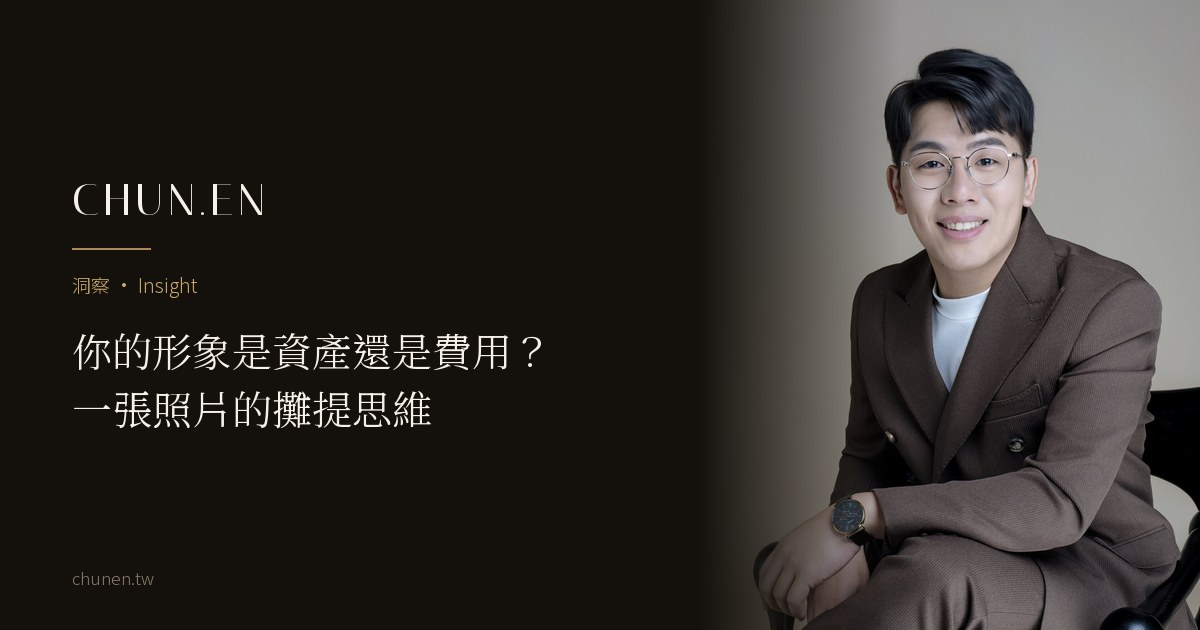
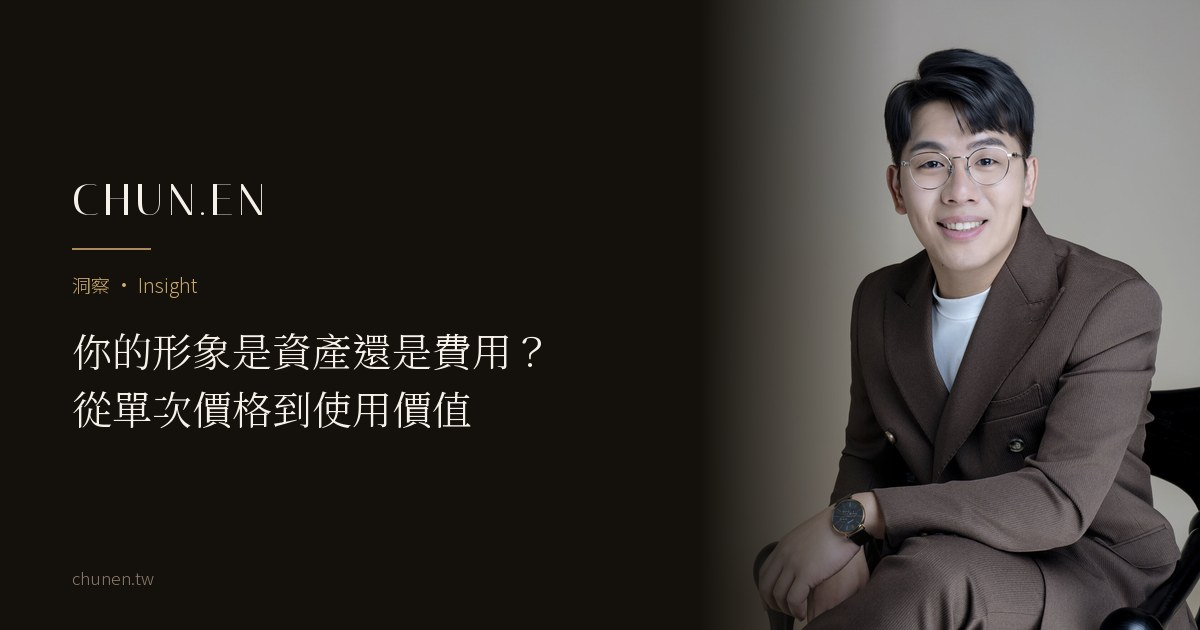
content(journal): 部署三篇依商業機密邊界與分工重新檢視；prepublish 加邊界檢查
prepublish_check 新增商業機密邊界關卡（注入測試驗過、全站零誤報）：
- 必修三條：/deploy 工具網址、內部品項代號（P0xx/A-0x/S-x 等）、Google Sheets 連結
- 人工判定一條：決策樹／shot list／選片規則／訪談題目／模擬器＋操作教學同段
  → 列警告並明寫「對照基準資料包 05，不易判定 → 問 user」

image-asset-or-expense
- H1 副標「一張照片的攤提思維」→「從單次價格到使用價值」：正文已聲明資產
  只是管理比喻，標題留著會計術語是自打（title/og/twitter/schema/錨文字×2 同步）
- H2「結帳之前，先換一欄記記看」→「回頭看這組照片，還在被使用嗎？」
- 「差的往往不是器材」→「差異多半來自服務範圍」（不過度概括同業）
- 「最常見、也最難補救」去掉無依據的頻率排名；「資產也有折舊」刪
- og 卡重產

portrait-deployment-map
- 開場改直接進操作，不再重複第一篇的「換大頭貼＋躺硬碟」畫面（兩篇分工：
  after 講為什麼沒用上、map 講怎麼分配，開場就標明）
- 金句「放對地方才是資產」→「放進版位才開始被看見」（資產框架讓給第三篇）

after-the-shoot：邊界與內容檢視過，模擬器段落合規（講功能、不連結工具），無需再動。
founder 草稿「完整的攤提算法在〈…〉」指向已不存在的段落，引用改寫對齊。

Changed region(s): [[0.0617, 0.6032, 0.4008, 0.6937]]

diff --git a/journal/image-asset-or-expense.html b/journal/image-asset-or-expense.html
@@ -4,14 +4,14 @@
   <meta charset="UTF-8" />
   <meta name="viewport" content="width=device-width, initial-scale=1.0, viewport-fit=cover" />
   <meta name="robots" content="noindex" /><!-- 草稿：Kay 審核後移除此行＋掛列表頁＋入 sitemap -->
-  <title>你的形象是資產還是費用？一張照片的攤提思維｜CHUN.EN 觀點</title>
+  <title>你的形象是資產還是費用？從單次價格到使用價值｜CHUN.EN 觀點</title>
   <meta name="description" content="一組形象照值不值得，不只看拍攝當天的價格。從官網、名片、提案與媒體這些實際用得到的位置，重新評估一組照片的使用範圍、更新時機，以及什麼情況下它其實是閒置的。" />
   <meta name="theme-color" content="#14100B" />
   <link rel="icon" href="/favicon.ico" sizes="48x48" />
   <link rel="icon" href="/favicon-32.png" type="image/png" sizes="32x32" />
   <link rel="apple-touch-icon" href="/apple-touch-icon.png" />
   <link rel="canonical" href="https://chunen.tw/journal/image-asset-or-expense.html" />
-  <meta property="og:title" content="你的形象是資產還是費用？一張照片的攤提思維" />
+  <meta property="og:title" content="你的形象是資產還是費用？從單次價格到使用價值" />
   <meta property="og:description" content="費用思維問「這次要花多少」；資產思維問「它之後派得上多少用場」。" />
   <meta property="og:image" content="https://chunen.tw/assets/og/image-asset-or-expense-og.jpg" />
   <meta property="og:image:width" content="1200" />
@@ -20,7 +20,7 @@
   <meta property="og:type" content="article" />
   <meta property="og:locale" content="zh_TW" />
   <meta name="twitter:card" content="summary_large_image" />
-  <meta name="twitter:title" content="你的形象是資產還是費用？一張照片的攤提思維" />
+  <meta name="twitter:title" content="你的形象是資產還是費用？從單次價格到使用價值" />
   <meta name="twitter:description" content="費用思維問「這次要花多少」；資產思維問「它之後派得上多少用場」。" />
   <meta name="twitter:image" content="https://chunen.tw/assets/og/image-asset-or-expense-og.jpg" />
   <link rel="preconnect" href="https://fonts.googleapis.com" />
@@ -70,7 +70,7 @@
     <header style="padding: clamp(9rem, 16vh, 11rem) 0 clamp(2rem, 4vh, 3rem);">
       <div class="wrap article-wrap">
         <p class="hero-eyebrow rv">洞察 · Insight</p>
-        <h1 class="rv rv-d1" style="font-weight: 300; font-size: clamp(1.9rem, 4.4vw, 3.2rem); line-height: 1.4; margin-top: 1rem;">你的形象是資產還是費用？<br>一張照片的<em style="font-style:normal;color:var(--gold-light);">攤提思維</em></h1>
+        <h1 class="rv rv-d1" style="font-weight: 300; font-size: clamp(1.9rem, 4.4vw, 3.2rem); line-height: 1.4; margin-top: 1rem;">你的形象是資產還是費用？<br>從單次價格到<em style="font-style:normal;color:var(--gold-light);">使用價值</em></h1>
         <p class="article-meta rv rv-d2">CHUN.EN 觀點 · 2026 · 閱讀約 5 分鐘</p>
       </div>
     </header>
@@ -117,7 +117,7 @@
 
         <h2>最貴的照片，是<em>拍了不敢用的</em>那組</h2>
         <p>反過來看，最不划算的不是貴的方案，是「便宜但閒置」的那組：拍完覺得不像自己、不敢放上官網、提案時還是塞舊照，購入價再低，使用率是零，等於什麼都沒有換到。這就是閒置資產。</p>
-        <p>而照片會閒置，原因不只一種：用途沒先盤點、構圖不適合版位、服裝方向不對、成品不像本人，也可能只是工作角色後來改變了。其中最常見、也最難事後補救的一種，是<a href="positioning-decides-portrait.html">定位缺席</a>：沒想清楚要讓誰看見、以什麼角色，拍出來自然「好看但用不上」。這也解釋了<a href="why-prices-differ.html">價格差十倍的形象照差在哪</a>，差的往往不是器材，是快門之前的定位工程，以及交付之後<a href="after-the-shoot.html">能不能真的部署出去</a>。</p>
+        <p>而照片會閒置，原因不只一種：用途沒先盤點、構圖不適合版位、服裝方向不對、成品不像本人，也可能只是工作角色後來改變了。其中最難靠事後補救的一種，是<a href="positioning-decides-portrait.html">定位缺席</a>：沒想清楚要讓誰看見、以什麼角色，拍出來自然「好看但用不上」。這也解釋了<a href="why-prices-differ.html">價格差十倍的形象照差在哪</a>：差異多半來自服務範圍，從快門之前的定位工作，到交付之後<a href="after-the-shoot.html">有沒有真的被用起來</a>。</p>
 
         <figure class="article-fig crop45">
           <img src="../assets/gallery/journal/image-asset-hero-v1-1400.jpg" alt="同一組拍攝中的另一張商務形象照，可用於官網與簡報版位" loading="lazy" />
@@ -127,10 +127,10 @@
         <h2>怎麼把這筆投資<em>做成資產</em></h2>
         <p>三個原則。一、先定位再拍，資產的價值來自「用得上」，而用得上來自想清楚（<a href="../a-voir.html">À Voir</a> 做的就是這件事）。</p>
         <p>二、先排最重要的版位，官網、社群、提案、媒體各要的版本，在拍攝規劃時就排進去，而不是拍完再將就；暫時用不到的，不必為了湊齊而拍。</p>
-        <p>三、定期盤點，照片和本人出現落差、角色升級時就該<a href="when-to-update-your-portrait.html">更新</a>，資產也有折舊。</p>
-        <p><strong>換一欄記，問題就不只是「要花多少」，而是「它接下來還派得上多少用場」。</strong></p>
+        <p>三、定期盤點，照片和本人出現落差、角色升級時就該<a href="when-to-update-your-portrait.html">更新</a>。</p>
+        <p><strong>換個算法，問題就不只是「要花多少」，而是「它接下來還派得上多少用場」。</strong></p>
 
-        <h2>結帳之前，先換一欄<em>記記看</em></h2>
+        <h2>回頭看這組照片，<em>還在被使用嗎？</em></h2>
         <p>回頭看你現在用的那張照片：它現在掛在哪些地方？還像現在的你嗎？職稱與角色還對嗎？需要放進簡報、媒體或官網的時候，有沒有適合的版本可以直接拿出來？</p>
         <p>如果答案多半是肯定的，這組照片就還在替你工作；如果多數位置都沒有它的版本，下一次要補的可能不是張數，是規劃。</p>
 
@@ -186,7 +186,7 @@
   {
     "@context": "https://schema.org",
     "@type": "Article",
-    "headline": "你的形象是資產還是費用？一張照片的攤提思維",
+    "headline": "你的形象是資產還是費用？從單次價格到使用價值",
     "description": "一組形象照值不值得，不只看拍攝當天的價格，而看它能不能重複進入官網、社群、簡報與媒體這些真正需要的位置，以及什麼時候該更新。",
     "image": "https://chunen.tw/assets/gallery/journal/image-asset-hero-v1-1400.jpg",
     "author": {"@type": "Person", "@id": "https://chunen.tw/author/zoey-wu.html#zoey", "name": "吳惇恩", "alternateName": "Zoey Wu", "jobTitle": "Founder & Brand Director", "image": "https://chunen.tw/assets/images/zoey-author-640.jpg", "url": "https://chunen.tw/author/zoey-wu.html"},
@@ -231,7 +231,7 @@
       {
         "@type": "ListItem",
         "position": 3,
-        "name": "你的形象是資產還是費用？一張照片的攤提思維",
+        "name": "你的形象是資產還是費用？從單次價格到使用價值",
         "item": "https://chunen.tw/journal/image-asset-or-expense.html"
       }
     ]

diff --git a/journal/portrait-deployment-map.html b/journal/portrait-deployment-map.html
@@ -12,7 +12,7 @@
   <link rel="apple-touch-icon" href="/apple-touch-icon.png" />
   <link rel="canonical" href="https://chunen.tw/journal/portrait-deployment-map.html" />
   <meta property="og:title" content="一組照片的部署地圖：官網、LinkedIn、簡報、媒體各要哪一張？" />
-  <meta property="og:description" content="照片的價值不在硬碟裡，在部署的位置上。拍完只是完成一半，放對地方才是資產。" />
+  <meta property="og:description" content="照片的價值不在硬碟裡，在部署的位置上。拍完只是完成一半，放進版位才開始被看見。" />
   <meta property="og:image" content="https://chunen.tw/assets/gallery/journal/portrait-deployment-map-hero-1400.jpg" />
   <meta property="og:image:width" content="2160" />
   <meta property="og:image:height" content="1215" />
@@ -90,9 +90,9 @@
       </div>
 
       <div class="article-body rv">
-        <p class="article-lead">很多人拍完一組形象照之後，做的唯一一件事是：換了 LINE 和 Facebook 的大頭貼。</p>
-        <p>其餘十幾張，躺在雲端硬碟裡再也沒被打開。這就像買了一整套西裝，卻只穿了領帶出門。</p>
-        <p>照片的價值不在硬碟裡，在部署的位置上，每一個你會被看見的場景，任務都不一樣；部署，就是替每個位置配上合適的那一張。</p>
+        <p class="article-lead">同一組形象照，進到官網、LinkedIn、簡報與媒體時，需要的構圖不完全相同。</p>
+        <p>官網主視覺要留空間給標題；LinkedIn 要縮得很小仍認得出你；簡報與媒體常常還需要另外的橫直版本與高解析檔案。所以照片的使用規劃，不是每個平台換一個人，而是同一個人，替不同版位準備合適的版本。</p>
+        <p>這件事我們叫部署：每一個你會被看見的位置，任務都不一樣；部署，就是替每個位置配上合適的那一張。照片為什麼會沒被用上，〈拍完形象照之後〉談過了；這一篇談怎麼分配。</p>
 
         <h2>先建立一個觀念：場景不同，<em>任務不同</em></h2>
         <p>同一組照片裡，很少有一張能在每個版位都是最佳構圖。官網首頁要的是「敘事感」，LinkedIn 要的是「縮到很小仍然認得出你」，簡報講師欄要的是「小尺寸也清楚」，媒體要的是「高解析與留白」。把同一張貼滿所有地方不會出事，只是多數位置都會差一點；<strong>真正需要一致的不是照片本身，是照片裡的那個人和他的角色。</strong></p>
@@ -114,7 +114,7 @@
         </table>
         </div>
         <p>看出規律了嗎？部署地圖其實在回答三個問題：<strong>誰會在這裡看到你？他距離你多遠（螢幕、紙本、還是舞台）？這個位置要先讓他認出你，還是先看懂你在做什麼？</strong>答案不同，照片就不同。</p>
-        <blockquote>照片的價值不在硬碟裡，在部署的位置上。拍完只是完成一半，放對地方才是資產。</blockquote>
+        <blockquote>照片的價值不在硬碟裡，在部署的位置上。拍完只是完成一半，放進版位才開始被看見。</blockquote>
 
         <h2>部署的紀律：什麼<em>可以不同</em>，什麼不能</h2>
         <p>這麼多版位、這麼多版本，聽起來很分裂？不會，只要它們來自同一次定位。</p>
@@ -159,7 +159,7 @@
       <div class="related rv">
         <p class="related-t">相關閱讀 · Related</p>
         <a href="after-the-shoot.html">拍完形象照之後，為什麼很多照片最後沒有被用上？</a>
-        <a href="image-asset-or-expense.html">你的形象是資產還是費用？一張照片的攤提思維</a>
+        <a href="image-asset-or-expense.html">你的形象是資產還是費用？從單次價格到使用價值</a>
         <a href="portrait-vs-personal-brand.html">形象照 vs 個人品牌形象照，差在哪</a>
       </div>
 

diff --git a/journal/founder-portrait-fundraising.html b/journal/founder-portrait-fundraising.html
@@ -115,7 +115,7 @@
         <p>這四行不是四個人設，是同一個你的四個切面，這正是〈<a href="which-version-of-you.html">要讓人看見哪一面</a>〉的命題。營運上的正確做法是一次企劃完成，變成一組可以按對象調度的資產，而不是每輪募資前臨時補一張。怎麼調度，見〈<a href="portrait-deployment-map.html">一組照片的部署地圖</a>〉。</p>
 
         <h2>把帳攤開算：這是全公司<em>單次成本最低</em>的信任資產</h2>
-        <p>新創的每一筆錢都該被拷問，所以我直接攤帳。一組專業的創辦人形象，使用場景至少包括：募資 deck 團隊頁、官網 About、LinkedIn、媒體採訪供圖、活動講者照、徵才頁，生命週期通常走完一整個募資階段，以使用次數攤提，<strong>它幾乎是所有對外支出裡單次成本最低的一項</strong>。完整的攤提算法在〈<a href="image-asset-or-expense.html">你的形象是資產還是費用</a>〉。</p>
+        <p>新創的每一筆錢都該被拷問，所以我直接攤帳。一組專業的創辦人形象，使用場景至少包括：募資 deck 團隊頁、官網 About、LinkedIn、媒體採訪供圖、活動講者照、徵才頁，生命週期通常走完一整個募資階段，把使用場景一個個數過去，<strong>它幾乎是所有對外支出裡單次成本最低的一項</strong>。這筆帳的完整看法，見〈<a href="image-asset-or-expense.html">你的形象是資產還是費用</a>〉。</p>
         <p>反過來的帳更該算：一張不對的照片，會在每一次被搜尋、每一場簡報、每一篇報導裡重複折損你，省下的是一次拍攝費，付出的是整個募資期的訊號稅。順帶一提：如果需要管理形象的不只你一人，而是整個核心團隊，那是另一個量級的工程，走<a class="fl-m" href="../enterprise.html">企業合作</a>的做法更划算。</p>
 
         <figure class="article-fig crop45">
@@ -150,7 +150,7 @@
       <div class="related rv">
         <p class="related-t">相關閱讀 · Related</p>
         <a href="executive-presence-explained.html">Executive Presence：高階主管氣場，來自三種訊號的一致</a>
-        <a href="image-asset-or-expense.html">你的形象是資產還是費用？一張照片的攤提思維</a>
+        <a href="image-asset-or-expense.html">你的形象是資產還是費用？從單次價格到使用價值</a>
         <a href="first-impression-research.html">第一印象真的只要 0.1 秒？研究說的是「形成很快」，不是「決定一切」</a>
       </div>
 
